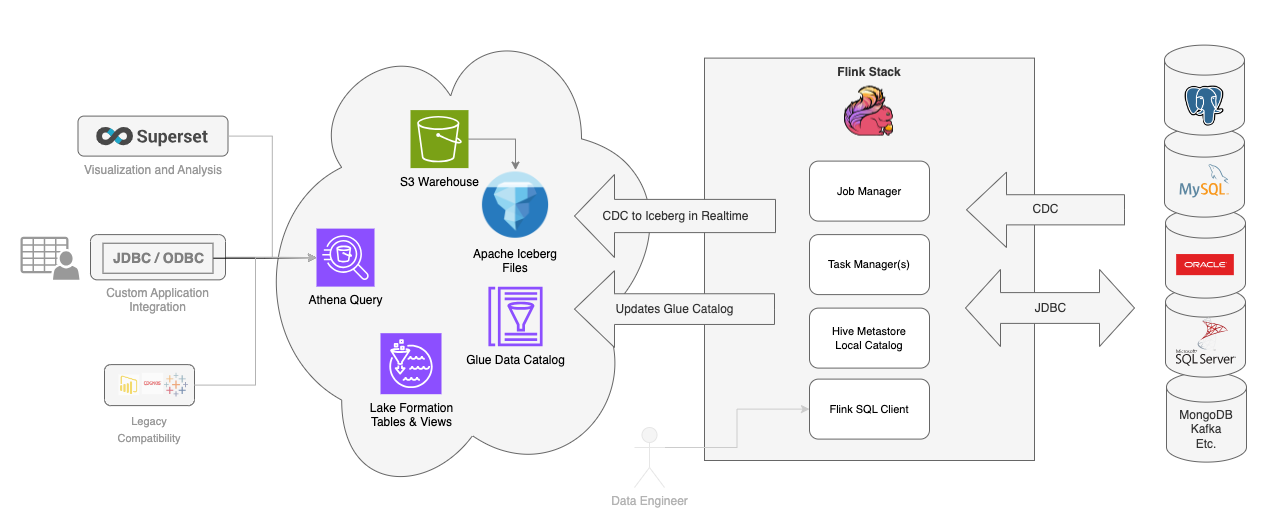
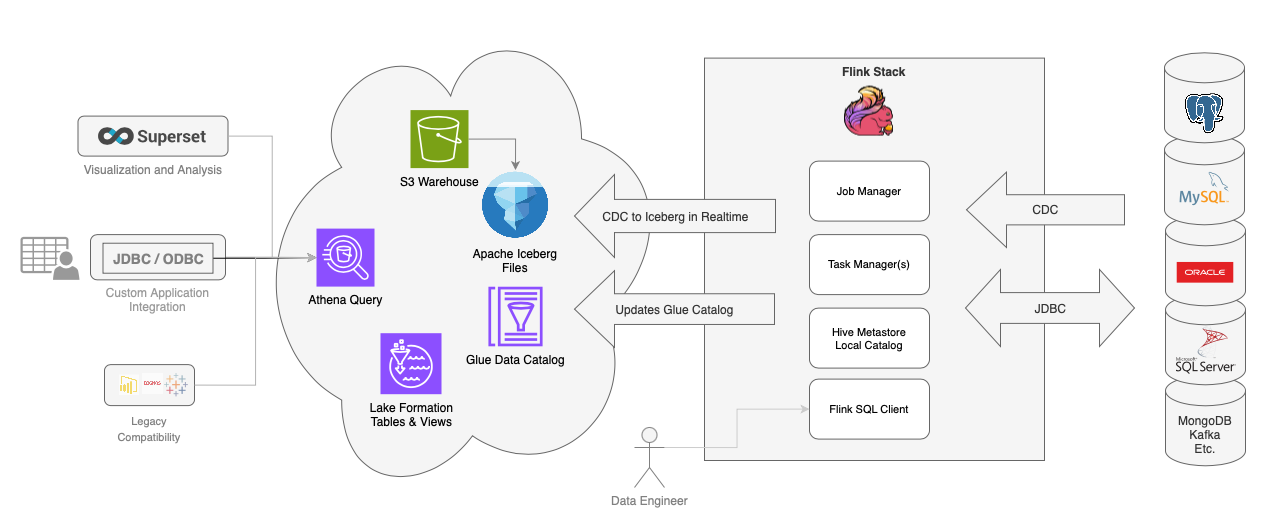
clean up diagrams

diff --git a/examples/streaming-etl-java/src/main/java/io/idstudios/flink/jobs/JobConfig.java b/examples/streaming-etl-java/src/main/java/io/idstudios/flink/jobs/JobConfig.java
@@ -4,7 +4,6 @@ import java.io.IOException;
 import java.util.HashMap;
 import java.util.Iterator;
 import java.util.Map;
-
 import org.apache.flink.api.java.utils.ParameterTool;
 import org.slf4j.Logger;
 import org.slf4j.LoggerFactory;

diff --git a/README.md b/README.md
@@ -70,10 +70,12 @@ Happy flinking!
 
 [streaming-etl-java](examples/streaming-etl-java/README.md) implementes the `Flink SQL` functionality in the `streaming-etl-to-iceberg` example using `Java` and the `Flink Table API`, and packages it into a job jar for deployment.
 
-[k8s](examples/k8s/README.md) illustrates how to deploy the `Flink Kubernetes Operator` to a K8s cluster and then how to define a Job `YAML` declaration file that will deploy the `streaming-etl-java job jar` into a dedicated job flink cluster running in the Kubernetes environment.
+[k8s](examples/k8s/README.md) illustrates how to deploy the `Flink Kubernetes Operator` to a K8s cluster and then how to define a Job `YAML` declaration file that will deploy the `streaming-etl-java job jar` into a dedicated job flink cluster running in the Kubernetes environment.  This example also defines a workable configuration and secrets handling strategy for production deployments.
+
+## Flink Workflow
+Starting with `Flink SQL` and the sql client to prototype data flows using agile SQL statements is a great way to setup the structure of a job in development.  Then transcribing that job into a `Java` implementation and `Job JAR` for deployment to Kubernetes feels like a great workflow and platform for data movement and real time analytics.
 
 ## Flink Catalogs
-
 The folks at decodable put out a lot of good info that has helped with navigating the Apache docs, or lack therof.  This is a great primer [article](https://www.decodable.co/blog/catalogs-in-flink-sql-a-primer) on `Flink Catalogs`.
 
 Essentially a catalog will persist your table definitions and source file locations (metadata) between sessions.  The `Flink SQL Client` by default will use an in-memory catalog that will disappear with each session.
